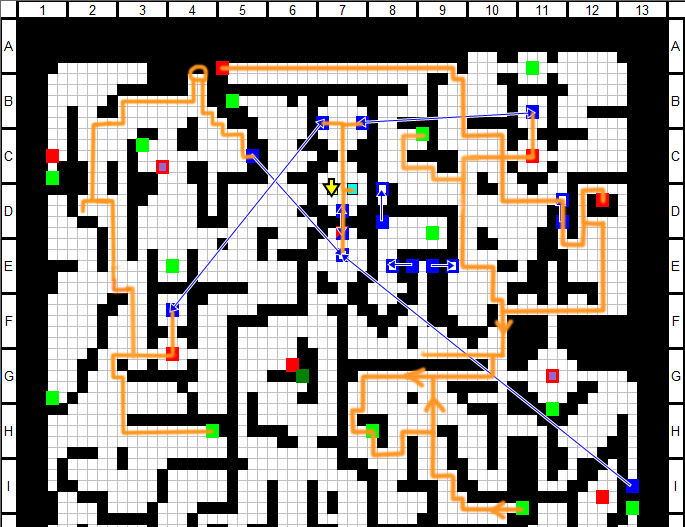
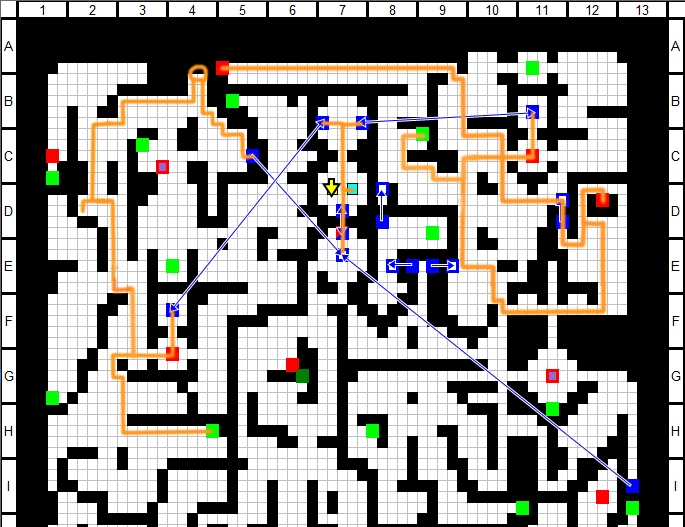
Removed chests from 10F, optimized 10F menus

Changed region(s): [[0.4905, 0.5465, 0.8891, 1.0]]

diff --git a/item/chests.md b/item/chests.md
@@ -276,21 +276,21 @@ Any treasure located in floor A that can only be obtained after reaching floor B
 | Demon Core | X |
 | Elixir of Mages | X |
 | Frozen Eyes | X |
-| Getitup V | O |
+| Getitup V | X |
 | Glittering Jewel x2 | X |
 | Grand Dragon Medal | X |
 | Herbalist's Proof | O |
 | Lv70 Lover Snapper's Scale | X |
 | Midgard's Tooth | X |
-| Portable Vibrocannon | O |
+| Portable Vibrocannon | X |
 | Pure Sake Wild Boar | X |
 | Reinforced Leather Armor | X |
 | Stone of Awakening | O |
 | Tisiphone Edge | O |
 | Treasure Chest Key | O |
-| Floor Total | 8 |
+| Floor Total | 6 |
 | Possible Skips | 0 |
-| Combined Total | 87 |
+| Combined Total | 83 |
 
 #### <a id="floor-11"></a>Floor 11
 

diff --git a/routes/ng/murakumo.md b/routes/ng/murakumo.md
@@ -1171,10 +1171,8 @@
 * Open the menu and take the following actions:
 	* Equipment:
 		* <span class="equip-add"> **Iku**: </span>
-			* <span class="equip-add"> (if no Tenshi drop) (1) **Portable Vibrocannon** (4) </span>
+			* <span class="equip-add"> (if no Tenshi drop) (1) **Tisiphone Edge** (4) </span>
 			* <span class="equip-add"> (2) **Tisiphone Edge** (4) </span>
-		* <span class="equip-add"> **Chen**: </span>
-			* <span class="equip-add"> (if Tenshi drop) (1) **Portable Vibrocannon** (4) </span>
 * Level reference: Nitori 27
 * Enter the dungeon (10F)
 
